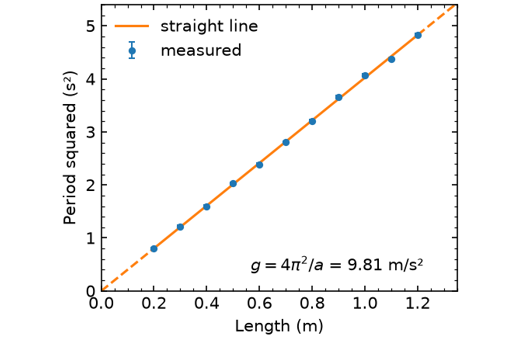
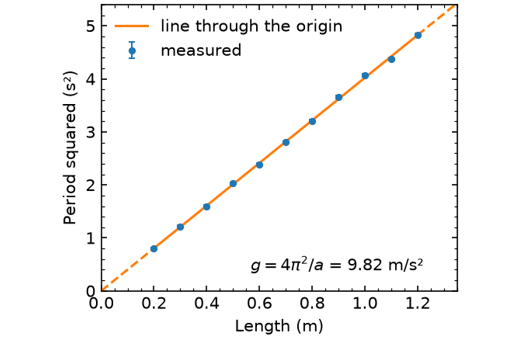
Fit the pendulum through the origin, so its numbers agree everywhere

Changed region(s): [[0.3077, 0.0588, 0.6769, 0.1176], [0.7077, 0.7647, 0.7385, 0.7941]]

diff --git a/examples/make.py b/examples/make.py
@@ -1190,11 +1190,12 @@ def pendulum(folder: Path) -> Project:
         project,
         folder,
         points,
-        PredefinedFit(name="linear"),
+        # Through the origin, as the law says: T^2 = (4 pi^2 / g) L.
+        ExpressionFit(expression="a * x", parameters=["a"]),
         color="C1",
         curve_to_limits=True,
         mark_extrapolated=True,
-        label="straight line",
+        label="line through the origin",
     )
     slope = fit.result.parameters["a"]
     project.figures[0].axes[0].artists.append(
